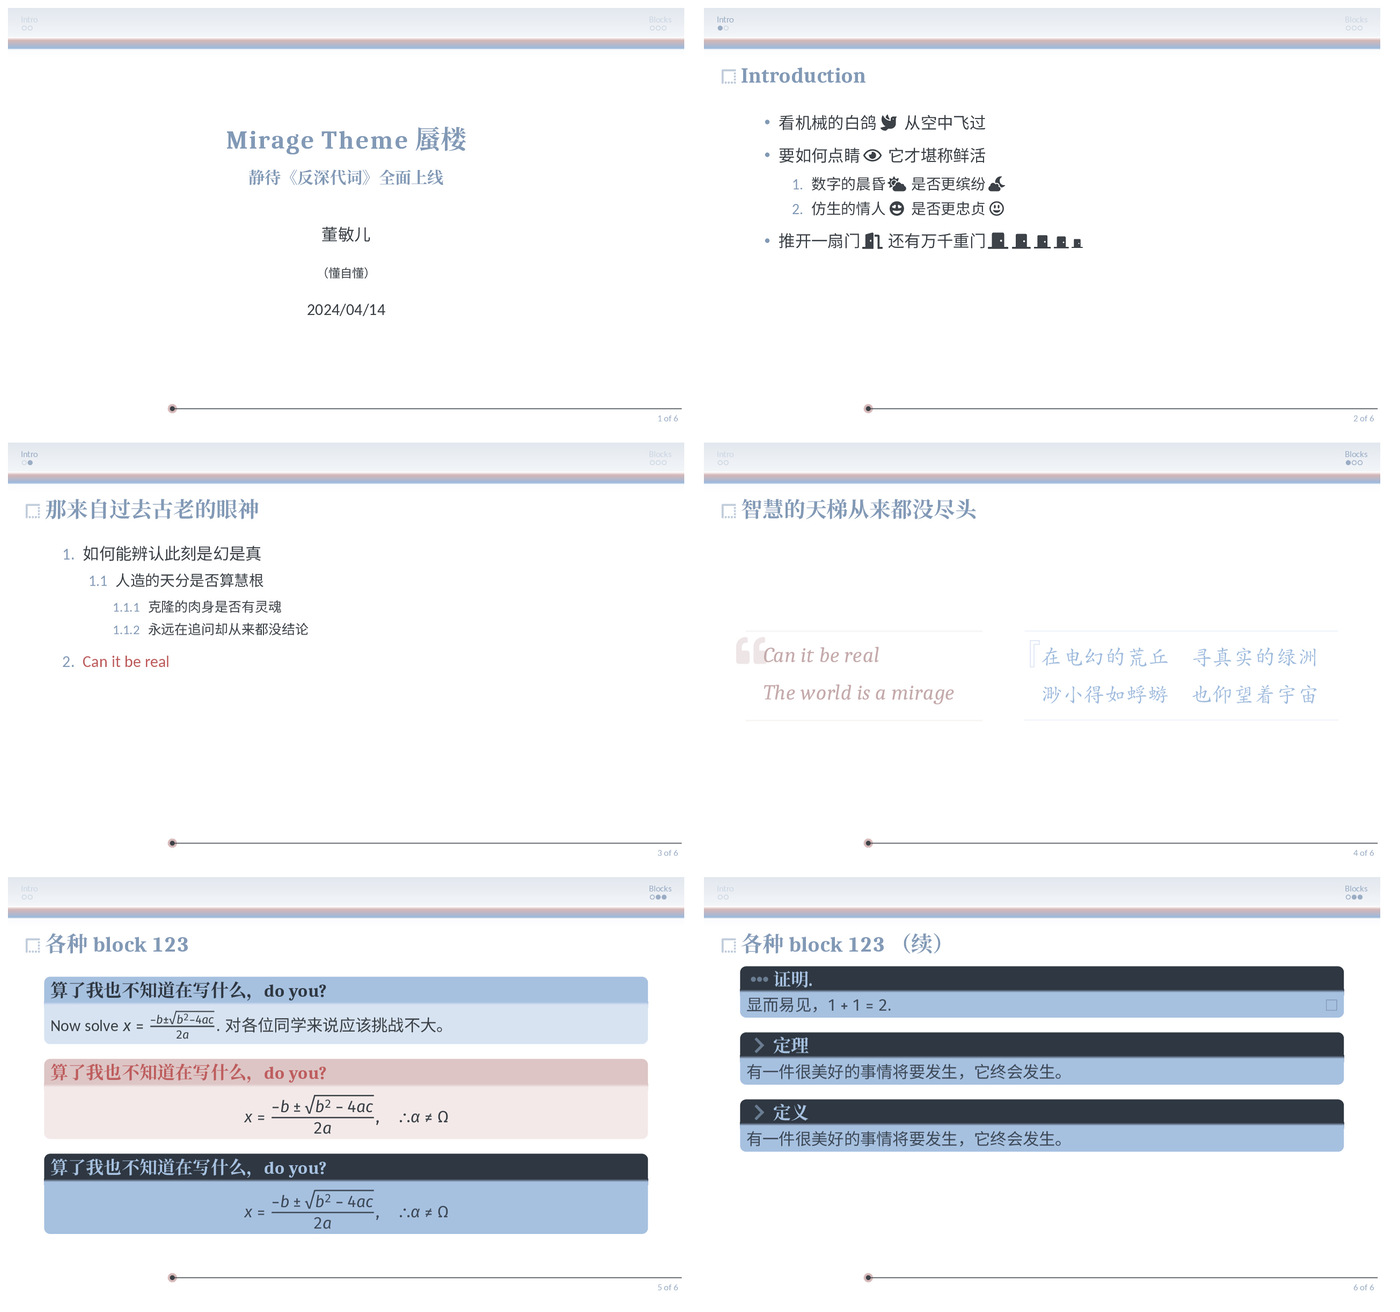
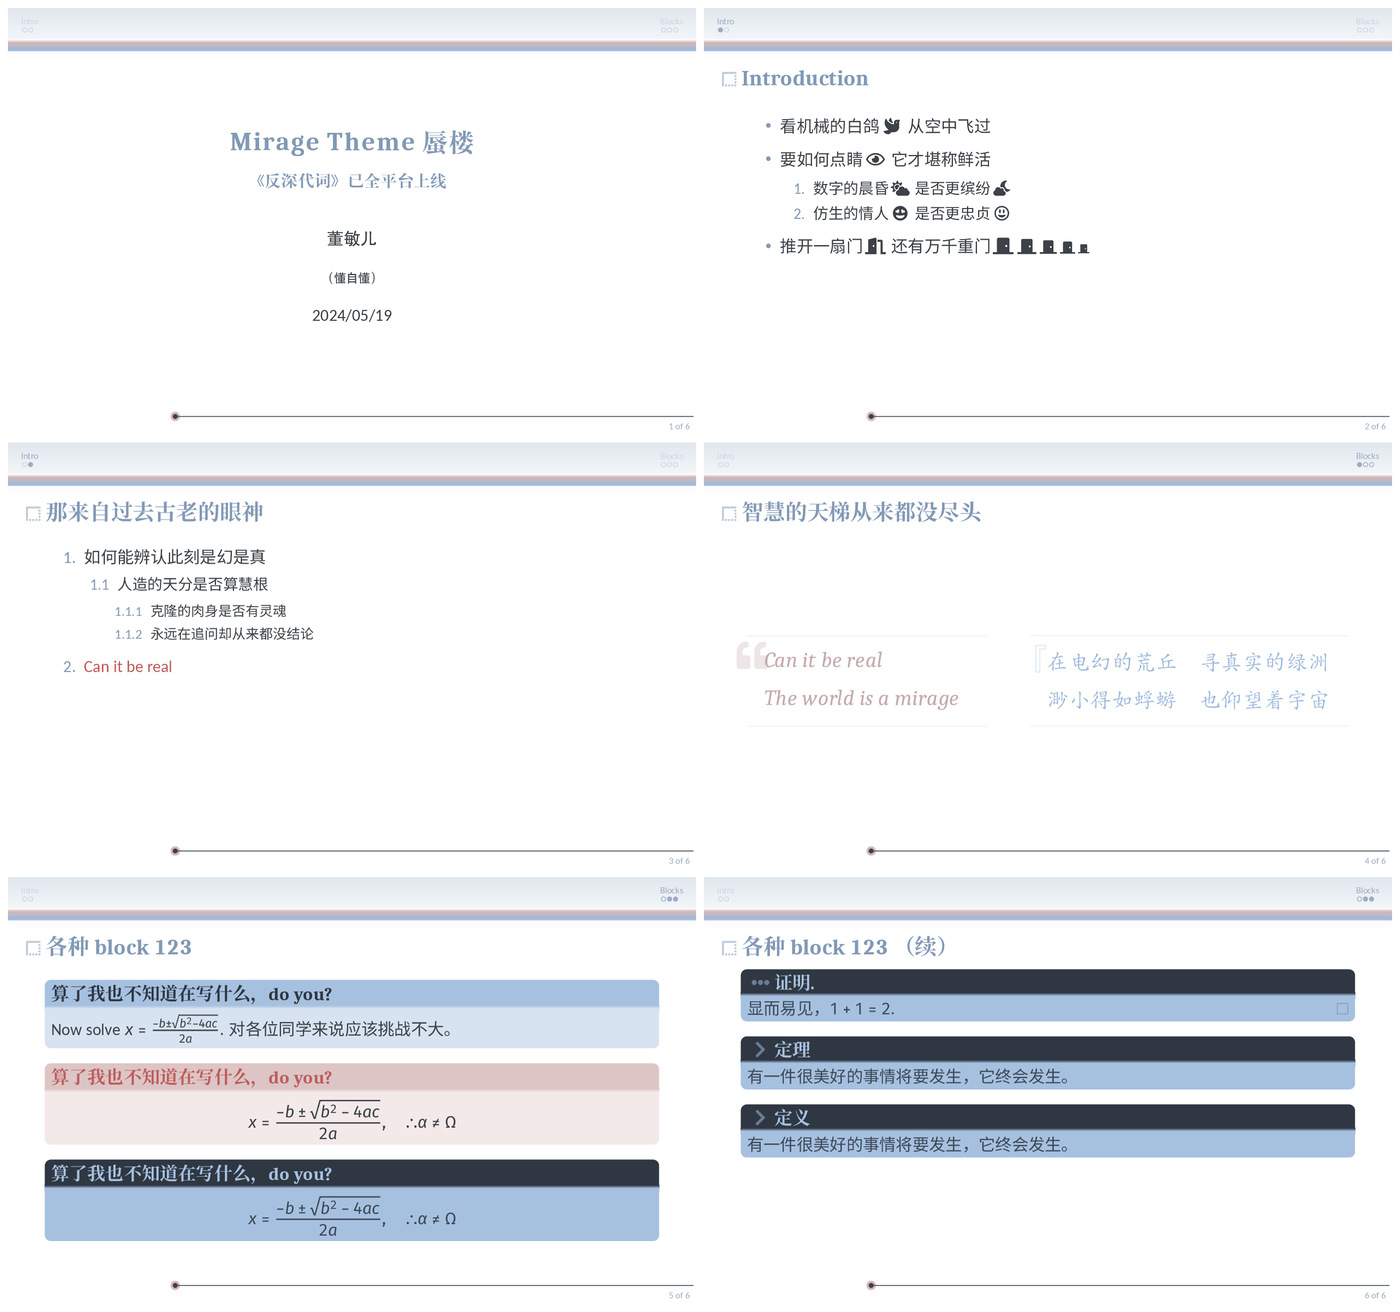
Update screenshots and README

diff --git a/main.tex b/main.tex
@@ -16,10 +16,10 @@
 % Mirage theme loads the fontawesome5 package
 
 \title{Mirage Theme 蜃楼}
-\subtitle{静待《反深代词》全面上线}
+\subtitle{《反深代词》已全平台上线}
 \author{董敏儿}
 \institute{（懂自懂）}
-\date{2024/04/14}
+\date{2024/05/19}
 
 % These fonts will work with pdflatex, xelatex, lualatex
 \usepackage[lining,tabular]{carlito}

diff --git a/README.md b/README.md
@@ -1,7 +1,7 @@
 # "Mirage" “蜃楼” beamer theme
 
-A beamer theme inspired by Zhou Shen's [`Mirage' song  poster](https://y.qq.com/music/photo_new/T002R800x800M000001D1RVa1THf8K.jpg).
-基于周深《反深代词》先行曲[《蜃楼》歌曲海报](https://y.qq.com/music/photo_new/T002R800x800M000001D1RVa1THf8K.jpg)的beamer主题。
+A beamer theme inspired by Zhou Shen's [`Mirage' song  poster](https://inews.gtimg.com/om_bt/OBrBfpq-0M6Q5dTbkIR4Cv-rXARTcTTWkBzBp_cWexlEUAA/0).
+基于周深《[反](https://y.qq.com/n/ryqq/albumDetail/003szpvI3LMhQ7)[深](https://music.163.com/#/album?id=190605791)[代](https://music.apple.com/cn/album/%E5%8F%8D%E6%B7%B1%E4%BB%A3%E8%AF%8D-ep/1746253956)[词](https://open.spotify.com/album/02ygNWa0juxhPjWOAs3yNv)》专辑的先行曲[《蜃楼》歌曲海报](https://inews.gtimg.com/om_bt/OBrBfpq-0M6Q5dTbkIR4Cv-rXARTcTTWkBzBp_cWexlEUAA/0)的beamer主题。
 
 以前也做过基于周深在流淌的歌声里[（近乎）清唱《青花瓷》](https://www.bilibili.com/bangumi/play/ep332561)印象的[beamer主题“天青色”](https://github.com/liantze/pgfornament-han/blob/master/beamerthemeTianQing.sty)，这次是基于《蜃楼》主题海报的色调，简单地试做了一个版本。
 
